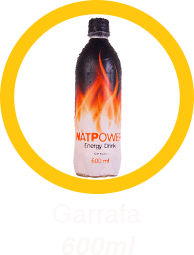
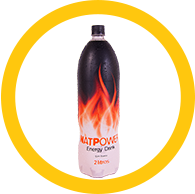
pagina concluida

diff --git a/Site/pg/natpower-energy-drink.php b/Site/pg/natpower-energy-drink.php
@@ -1,0 +1,203 @@
+<style>
+.bg{
+  padding-top: 80px;
+  padding-left:3%;
+  padding-right: 3%;
+  background:url(_/images/marcas-detalhado/NatPower/bg.jpg) #688082 no-repeat;
+  width:100%;
+  background-size: cover;
+
+}
+
+.infomini{
+  font-size: 25px;
+  font-family: "Helvetica";
+  color: rgb(252, 248, 247);
+  line-height: 1.226;
+  text-align: center;
+  padding-top: 5%;
+  font-weight: bold;
+  text-shadow: 2px 2px 3px #000000;
+}
+.seta{
+  margin-top: 20px;
+  margin-bottom: 20px;
+  max-width: 80%;
+}
+
+#principal{
+  max-height: 500px  ;
+}
+
+#info{
+  font-size: 20px;
+  font-family: "Helvetica";
+  color: rgb(255, 255, 255);
+  font-weight: bold;
+  line-height: 1.226;
+  text-align: left;
+  margin-top: 20px;
+  text-shadow: 2px 2px 3px #000000;
+}
+
+#info em{
+  font-weight: 200;
+}
+
+
+.titulo {
+  font-size: 55px;
+  font-family: "Helvetica";
+  color: #FFC70E;
+  font-weight: bold;
+  line-height: 0.979;
+  text-align: left;
+  text-shadow: 2px 2px 3px #000000;
+  padding: 10px 10px 10px 10px;
+
+}
+
+
+@media (max-width: 995px) {
+  .titulo {
+    text-align: center;
+  }
+}
+@media (max-width: 480px) {
+  .titulo {
+    font-size: 3em;
+    text-align: center;
+  }
+}
+
+.btn-zero {
+  color: #FE0005;
+  text-transform: uppercase;
+  font-weight: 10;
+  padding: 5px 30px;
+  box-shadow: 0 4px 0 #41464A;
+  border-radius: 3px;
+  background-clip: padding-box;
+  background-color: #000000;
+  top: 0;
+  font-weight: bold;
+  font-style: italic;
+  margin-bottom: 20px;
+  margin-top:10px;
+
+}
+
+a:hover, a:focus {
+  color: #CCC;
+  text-decoration: none;
+}
+</style>
+
+<div class="blog_classic bg">
+  <div class="container blog_classic_posts">
+    <div class="row">
+      <div class="col-md-12">
+        <!-- titulo -->
+        <div class="row">
+          <div class="col-md-12">
+
+            <div class="titulo">
+            <em>
+              <p>
+                TROPICOLA
+              </p>
+            </em>
+          </div>
+
+        </div>
+      </div>
+      <!-- miniaturas -->
+      <div class="row">
+        <div class="col-xs-12 col-sm-6 col-md-3 col-lg-3">
+          <img class="img-responsive center-block" src="_/images/marcas-detalhado/NatPower/1.png" alt="" />
+          <div class="infomini">
+            <p>
+              Garrafa
+            </p>
+            <p>
+              2 Litros
+            </p>
+          </div>
+        </div>
+
+        <div class="col-xs-12 col-sm-6 col-md-3 col-lg-3">
+          <img class="img-responsive center-block" src="_/images/marcas-detalhado/NatPower/2.png" alt="" />
+          <div class="infomini">
+            <p>
+              Garrafa
+            </p>
+            <p>
+              1 Litro
+            </p>
+          </div>
+        </div>
+
+        <div class="col-xs-12 col-sm-6 col-md-3 col-lg-3">
+          <img class="img-responsive center-block" src="_/images/marcas-detalhado/NatPower/3.png" alt="" />
+          <div class="infomini">
+            <p>
+              Garrafa
+            </p>
+            <p>
+              600 ml
+            </p>
+          </div>
+        </div>
+
+        <div class="col-xs-12 col-sm-6 col-md-3 col-lg-3">
+          <img class="img-responsive center-block" src="_/images/marcas-detalhado/NatPower/4.png" alt="" />
+          <div class="infomini">
+            <p>
+              Lata
+            </p>
+            <p>
+              269 ml
+            </p>
+          </div>
+        </div>
+
+      </div>
+
+      <div class="row ">
+        <div class="col-md-6">
+          <div class="row">
+            <div class="col-xs-12 col-sm-12">
+              <div id="info">
+                <p>
+                  Informação Nutricional: <br>
+                  <em>Teor Calórico – 78 kcal / 200 ml</em>
+
+                </p>
+                <p>
+                  Ingredientes: <br>
+                  <em>Água gaseificada, açúcar, taurina, cafeína e glucoronolactona.</em>
+                </p>
+                <p>
+                  Embalagens: <br>
+                  <em>
+                    Garrafa 2 litros <br>
+                    Garrafa 1 litro <br>
+                    Garrafa 600 ml <br>
+                    Lata 269 ml
+                  </em>
+                </p>
+              </div>
+            </div>
+          </div>
+        </div>
+        <div class="col-md-6 hidden-xs hidden-sm ">
+          <img class="img-responsive center-block seta" src="_/images/marcas-detalhado/NatPower/principal.png" alt="" />
+        </div>
+      </div>
+
+    </div>
+
+
+  </div>
+</div>
+</div>	<!-- Bottom Section -->
